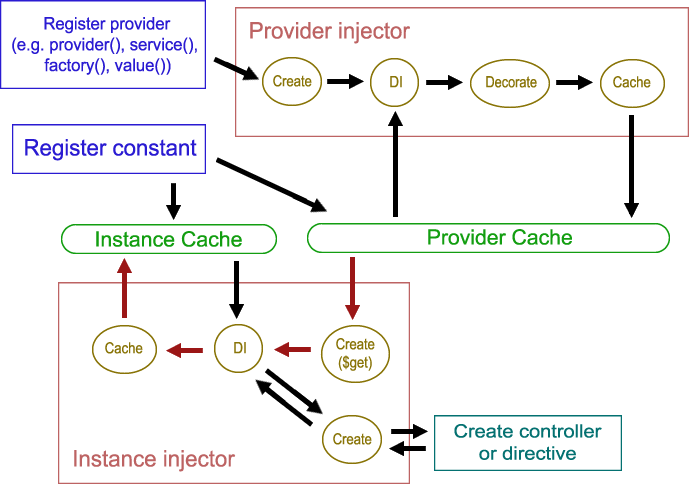
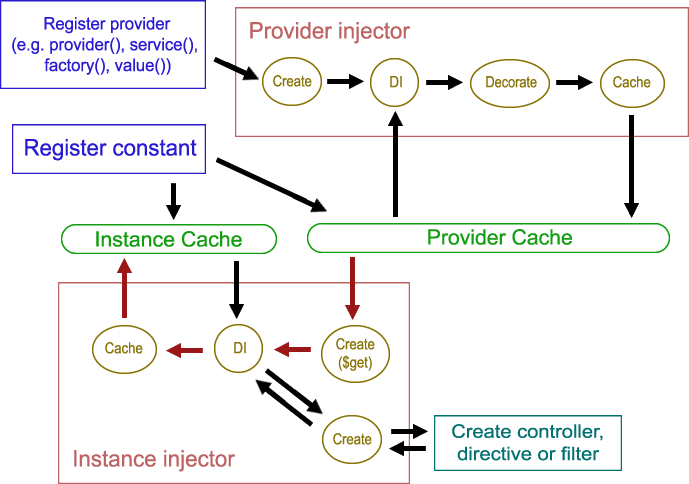
Angular provider post

Changed region(s): [[0.6401, 0.8678, 0.8839, 0.9607]]

diff --git a/_posts/2013-11-9-angular-consts-values-services-factories-and-providers-oh-my.md b/_posts/2013-11-9-angular-consts-values-services-factories-and-providers-oh-my.md
@@ -19,9 +19,9 @@ Conceptually, Angular has an IoC container that only supports a singleton lifecy
 }
 ```
 
-That's it! An object with a `$get` method that returns an instance. Only one instance of the provider itself and the object it produces are maintained. You can also pass in dependencies. These dependencies can either be constants (Which we'll cover in a bit) or instances created by other providers (But not the providers themselves, more on that later). 
+That's it! An object with a `$get` function that returns an instance. Only one instance of the provider itself and the object it produces are maintained. You can also pass in dependencies. These dependencies can either be constants (Which we'll cover in a bit) or instances created by other providers (But not the providers themselves, more on that later). 
 
-A [convenience method](http://code.angularjs.org/1.2.0/docs/api/AUTO.$provide#methods_provider) on `Module` allows you to register providers, first specifying the name of the provider and then the provider itself:
+A [convenience function](http://code.angularjs.org/1.2.0/docs/api/AUTO.$provide#methods_provider) on `Module` allows you to register providers, first specifying the name of the provider and then the provider itself:
 
 ```js
 module('myModule', []).
@@ -32,7 +32,7 @@ module('myModule', []).
     });
 ```
 
-You can also define providers in the module `config` method if you need more flexibility:
+You can also define providers in the module `config` function if you need more flexibility:
 
 ```js
 module('myModule', []).
@@ -109,7 +109,7 @@ So the first provider takes in a constant and the second provider takes in the m
 
 ### Service, Factories and Values ###
 
-Up until now I haven't said anything about services, factories or values. Why? Because those concepts don't actually exist in Angular, there are only providers and the instances they produce, period. The `service()`, `factory()` and `value()` methods on `Module` and `$provide` are just *convenience methods* that accept functions or instances and turn them into providers, they don't represent any special Angular constructs by those names. To make this clearer, here are the convenience methods (I expanded them out for demonstrative purposes as they were DRY, see the actual ones [here](https://github.com/angular/angular.js/blob/v1.2.0/src/auto/injector.js#L632)):
+Up until now I haven't said anything about services, factories or values. Why? Because those concepts don't exist in Angular as distinct constructs, there are only providers and the instances they produce. The `service()`, `factory()` and `value()` functions on `Module` and `$provide` are just *convenience functions* (Poorly named IMO) that accept functions or instances and turn them into providers, they don't represent any special Angular constructs by those names. To make this clearer, here are the convenience functions (I expanded them out for demonstrative purposes as they were DRY, see the actual ones [here](https://github.com/angular/angular.js/blob/v1.2.0/src/auto/injector.js#L632)):
 
 ```js
 function factory(name, factoryFn) { 
@@ -133,25 +133,19 @@ function value(name, val) {
 }
 ```
 
-So `factory()` is just a convenience method for creating a provider from a function that returns the instance. `service()` is just a convenience method for creating a provider from a function constructor that is instantiated as the instance (If you're using CoffeeScript of like that pattern). And `value()` is just a convenience method for creating a provider that returns an instance. In the beginning we talked about how IoC containers typically allow you to register either instances, factories that create instances or a type to instantiate. That's exactly the functionality these convenience methods enable. But as you can see, its all just providers, the convenience methods just make it easier to do what you will want to do 99% of the time. So you could rename those convenience methods to something like this and I think it would make more sense (albeit more keystrokes):
+So `factory()` is just a convenience function for creating a provider from a function that returns the instance. `service()` is just a convenience function for creating a provider from a function constructor that is instantiated as the instance (If you're using CoffeeScript of like that pattern). And `value()` is just a convenience function for creating a provider that returns an instance. In the beginning we talked about how IoC containers typically allow you to register either instances, factories that create instances or a type to instantiate. That's exactly the functionality these convenience functions enable. But as you can see, its all just providers and the convenience functions just make it easier to do what you will want to do 99% of the time. 
 
-```js
-function registerFactoryProvider(name, factoryFn) { ... }
+At this point Zoidberg would say "why with all the Angular services??" That's just the colloquial name Angular folks have given to anything in Angular's IoC container. So in angular parlance, *providers* create *services* and *services* can then be taken as dependencies in other services, controllers, filters and directives. `service()`, `factory()` and `value()` are all shortcuts for registering *providers* that create *services* (Despite the Starbucks drink size naming).
 
-function registerConstructorProvider(name, constructor) { ... }
-
-function registerInstanceProvider(name, val) { ... }
-```
-
-So you're probably not going to work with providers directly as I've been showing up till this point, you will probably be using the `service()`, `factory()` and `value()` convenience methods. But hopefully you will now understand what they actually mean and the underlying construct they are creating. 
+Finally, you're probably not going to work with providers directly as I've been showing up till this point, you will probably be using the `service()`, `factory()` and `value()` convenience functions. But hopefully you will now understand what they actually mean and the underlying construct they are creating.
 
 ### Fitting it all together ###
 
-So now that we understand providers (and their convenience methods), how is all this tied together? The following illustrates this:
+So now that we understand providers (and their convenience functions), how is all this tied together? The following illustrates this:
 
 ![Angular provider flow](/blog/images/angular-provider-flow.png)
 
-So when you register a provider either directly or via one of the convenience methods (`service()`, `factory()` or `value()`) the provider injector creates an instance of the provider. If you registered a provider factory or constructor function with dependencies, dependencies are injected from the *provider cache*. This explains why you can only take in providers or constants as dependencies in provider factory or constructor functions (And remember we're not talking about dependencies injected into the `$get` function, that's different). It then decorates the provider (We'll cover that later) and then puts the provider in the provider cache.
+So when you register a provider either directly or via one of the convenience functions (`service()`, `factory()` or `value()`) the provider injector creates an instance of the provider. If you registered a provider factory or constructor function with dependencies, dependencies are injected from the *provider cache*. This explains why you can only take in providers or constants as dependencies in provider factory or constructor functions (And remember we're not talking about dependencies injected into the `$get` function, that's different). It then decorates the provider (We'll cover that later) and then puts the provider in the provider cache.
 
 When a controller or directive is created, the instance injector tries to inject dependencies from the *instance cache*. If it can't find a dependency there, it then looks to see if there is a provider for the dependency in the *provider cache*. If there is, it calls the `$get` function on the provider to get the instance. It resolves the dependencies of the `$get` function the same way it does for controllers and directives; first checking the instance cache and if it can't find it there, tries to find a provider, and so on. The instance returned by the provider `$get` function is injected and then cached in the instance cache for future use.
 
@@ -168,7 +162,7 @@ function constant(name, value) {
 }
 ```
 
-They are also not providers even though they get put into the provider cache. This allows provider factories and constructor functions can take them as a dependency. And of course the provider `$get` function, controllers and directives can also take them as dependencies. Constants can be an object or primitive (Just in case the name makes you think primitives only). Since they are not providers they cannot be altered by decorators, so in that way they are "constant".
+They are also not providers even though they get put into the provider cache. This allows provider factories and constructor functions can take them as a dependency. And of course the provider `$get` function, controllers and directives can also take them as dependencies. Constants can be an object or primitive (Just in case the name makes you think primitives only). Since they are not providers and skip the provider workflow, they cannot be altered by decorators, so in that way they are "constant".
 
 ### Decorators ###
 
